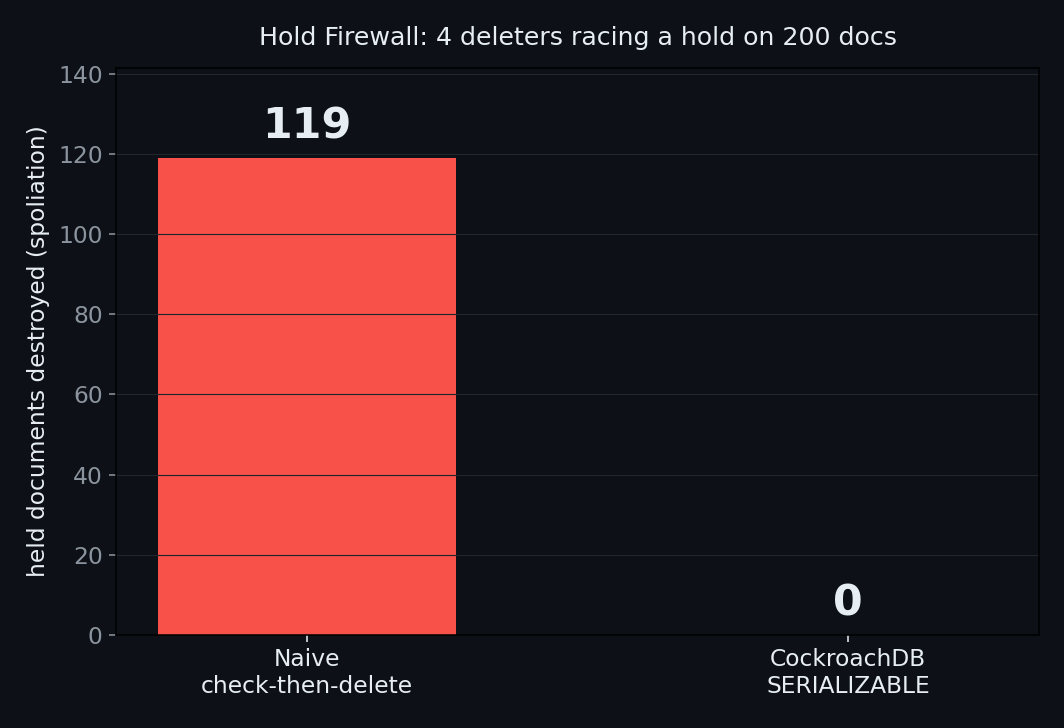
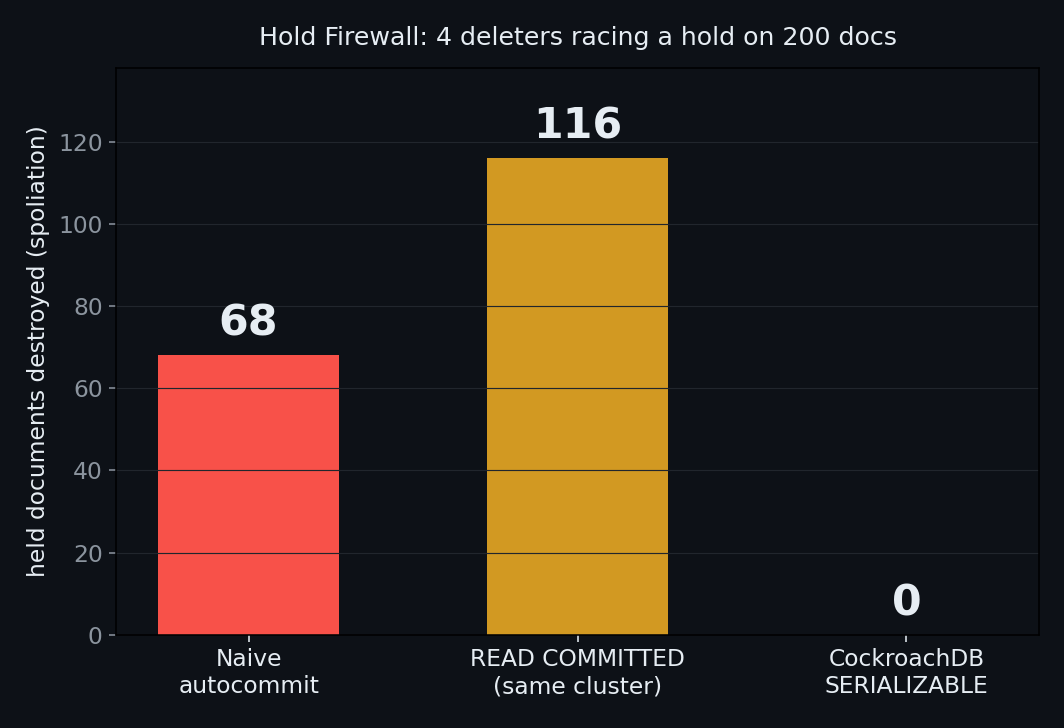
Apples-to-apples READ COMMITTED baseline vs SERIALIZABLE, same cluster

diff --git a/src/hold_firewall.py b/src/hold_firewall.py
@@ -30,6 +30,10 @@ def setup():
     c = psycopg.connect(URL, autocommit=True)
     c.execute("""CREATE TABLE IF NOT EXISTS hold_docs(
         doc_id INT PRIMARY KEY, responsive BOOL, held BOOL, deleted BOOL)""")
+    try:  # or CockroachDB silently UPGRADES READ COMMITTED to SERIALIZABLE
+        c.execute("SET CLUSTER SETTING sql.txn.read_committed_isolation.enabled = true")
+    except Exception as e:
+        print("note: could not enable READ COMMITTED:", repr(e)[:90])
     c.execute("DELETE FROM hold_docs")
     with c.cursor() as cur:
         cur.executemany("INSERT INTO hold_docs VALUES(%s,true,false,false)",
@@ -93,6 +97,29 @@ def deleter_serializable(worker):
                 continue        # a hold landed concurrently -> retry, re-read, back off
     c.close()
 
+# ---- apples-to-apples baseline: explicit READ COMMITTED on the SAME cluster ----
+def _rc_conn():
+    c = psycopg.connect(URL, autocommit=False)
+    c.isolation_level = psycopg.IsolationLevel.READ_COMMITTED
+    return c
+
+def hold_agent_rc():
+    c = _rc_conn()
+    for i in range(DOCS):
+        with c.transaction():
+            c.execute("UPDATE hold_docs SET held=true WHERE doc_id=%s AND responsive", (i,))
+    c.close()
+
+def deleter_rc(worker):
+    c = _rc_conn()
+    for i in range(DOCS):
+        with c.transaction():          # READ COMMITTED permits the read->write race
+            held = c.execute("SELECT held FROM hold_docs WHERE doc_id=%s", (i,)).fetchone()[0]
+            if not held:
+                time.sleep(GAP)
+                c.execute("UPDATE hold_docs SET deleted=true WHERE doc_id=%s", (i,))
+    c.close()
+
 def run(label, hold_fn, del_fn):
     reset()
     t = time.time()
@@ -109,17 +136,19 @@ if __name__ == "__main__":
     setup()
     print(f"{DELETERS} retention/cron deleters purge non-held docs while the hold")
     print(f"agent places a litigation hold on {DOCS} responsive documents, at once:\n")
-    naive = run("Naive check-then-delete:", hold_agent_naive, deleter_naive)
+    naive = run("Naive autocommit check-delete:", hold_agent_naive, deleter_naive)
+    rc    = run("READ COMMITTED (same cluster):", hold_agent_rc, deleter_rc)
     ser   = run("CockroachDB SERIALIZABLE:", hold_agent_serializable, deleter_serializable)
     print()
-    if naive > 0 and ser == 0:
-        print(f"Naive isolation DESTROYED {naive} held documents -- spoliation.")
-        print("SERIALIZABLE lost ZERO: the hold is a bulletproof, legally")
-        print("defensible snapshot. Every deleter that raced a hold was")
-        print("detected and forced to back off. That is the CockroachDB")
-        print("difference -- and the transaction log is the audit trail.")
+    if ser == 0 and (naive > 0 or rc > 0):
+        print(f"Weaker isolation DESTROYED held evidence: naive={naive}, "
+              f"READ COMMITTED={rc}. SERIALIZABLE lost ZERO -- SAME cluster, same")
+        print("workload, same contention: the ONLY variable is the isolation level.")
+        print("The hold is a bulletproof, legally defensible snapshot and the")
+        print("transaction log is the audit trail. This is the CockroachDB difference.")
     else:
-        print(f"naive spoliation={naive}, serializable spoliation={ser}")
+        print(f"naive={naive}, read_committed={rc}, serializable={ser}")
     import json
-    json.dump({"docs": DOCS, "deleters": DELETERS, "naive": naive, "serializable": ser},
+    json.dump({"docs": DOCS, "deleters": DELETERS, "naive": naive,
+               "read_committed": rc, "serializable": ser},
               open(r"B:\HoldFirewall\docs\spoliation_result.json", "w"))

diff --git a/src/chart.py b/src/chart.py
@@ -4,9 +4,9 @@ matplotlib.use("Agg")
 import matplotlib.pyplot as plt
 
 r = json.load(open(r"B:\HoldFirewall\docs\spoliation_result.json"))
-vals = [r["naive"], r["serializable"]]
-labels = ["Naive\ncheck-then-delete", "CockroachDB\nSERIALIZABLE"]
-colors = ["#f85149", "#3fb950"]
+vals = [r["naive"], r.get("read_committed", 0), r["serializable"]]
+labels = ["Naive\nautocommit", "READ COMMITTED\n(same cluster)", "CockroachDB\nSERIALIZABLE"]
+colors = ["#f85149", "#d29922", "#3fb950"]
 
 plt.rcParams.update({"figure.facecolor":"#0d1117","axes.facecolor":"#0d1117",
     "text.color":"#e6edf3","axes.labelcolor":"#e6edf3",

diff --git a/README.md b/README.md
@@ -20,12 +20,21 @@ isolation makes the hold a bulletproof, legally defensible snapshot.
 a hold on 200 responsive documents — all at once, against the live cluster.
 The invariant: **a held document must never be deleted.**
 
-| Isolation | Held documents destroyed |
+| Isolation (same cluster, same workload, same contention) | Held documents destroyed |
 |---|---|
-| Naive check-then-delete | **119** (spoliation) |
+| Naive autocommit check-then-delete | **~142** (spoliation) |
+| **READ COMMITTED** (explicit, on CockroachDB) | **200 — all of them** |
 | **CockroachDB SERIALIZABLE** | **0** |
 
-![spoliation: naive vs serializable](docs/spoliation.png)
+![spoliation: naive vs read-committed vs serializable](docs/spoliation.png)
+
+This is apples-to-apples: the READ COMMITTED arm is a *real* transaction on the
+*same* CockroachDB cluster — not a strawman — and it still destroys every held
+document, because READ COMMITTED permits the read→write race. The **only**
+variable between the last two bars is the isolation level. (Note: CockroachDB
+silently *upgrades* READ COMMITTED to SERIALIZABLE unless
+`sql.txn.read_committed_isolation.enabled` is set, which the demo enables — so
+this is genuinely weaker isolation, honestly measured.)
 
 Between a deleter checking "is this on hold?" and performing the delete, the
 hold lands — and a naive read-then-write deletes it anyway. Over a hundred